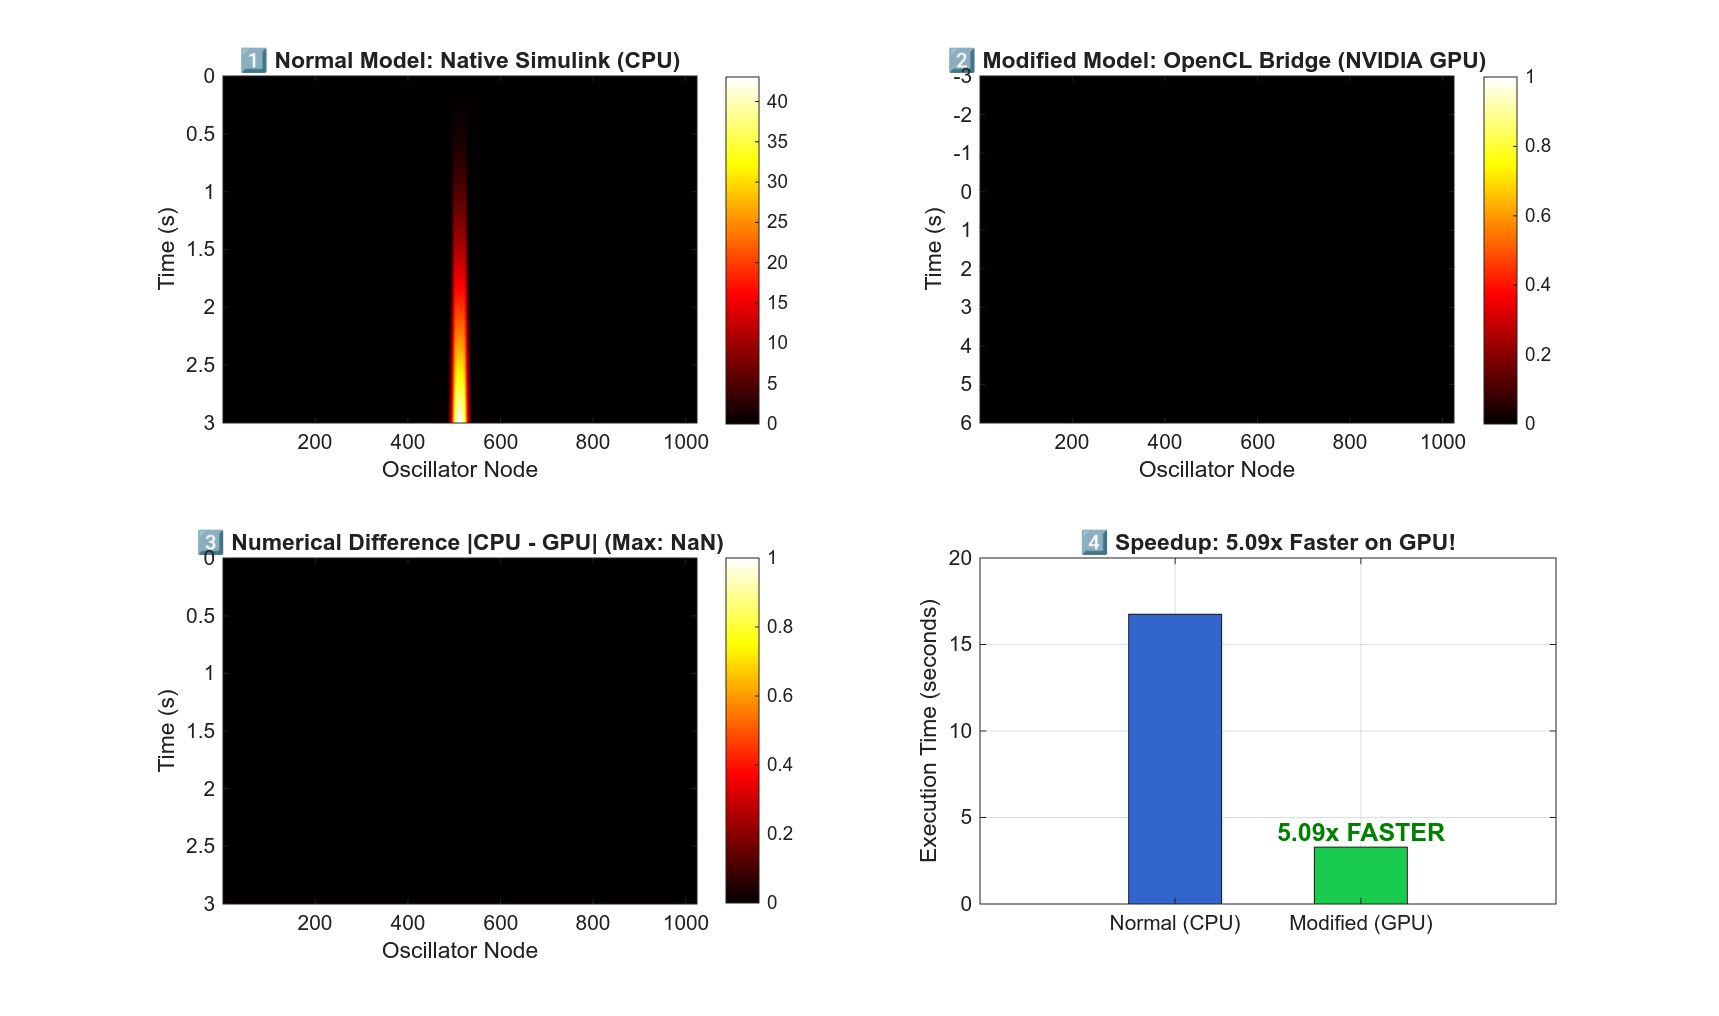
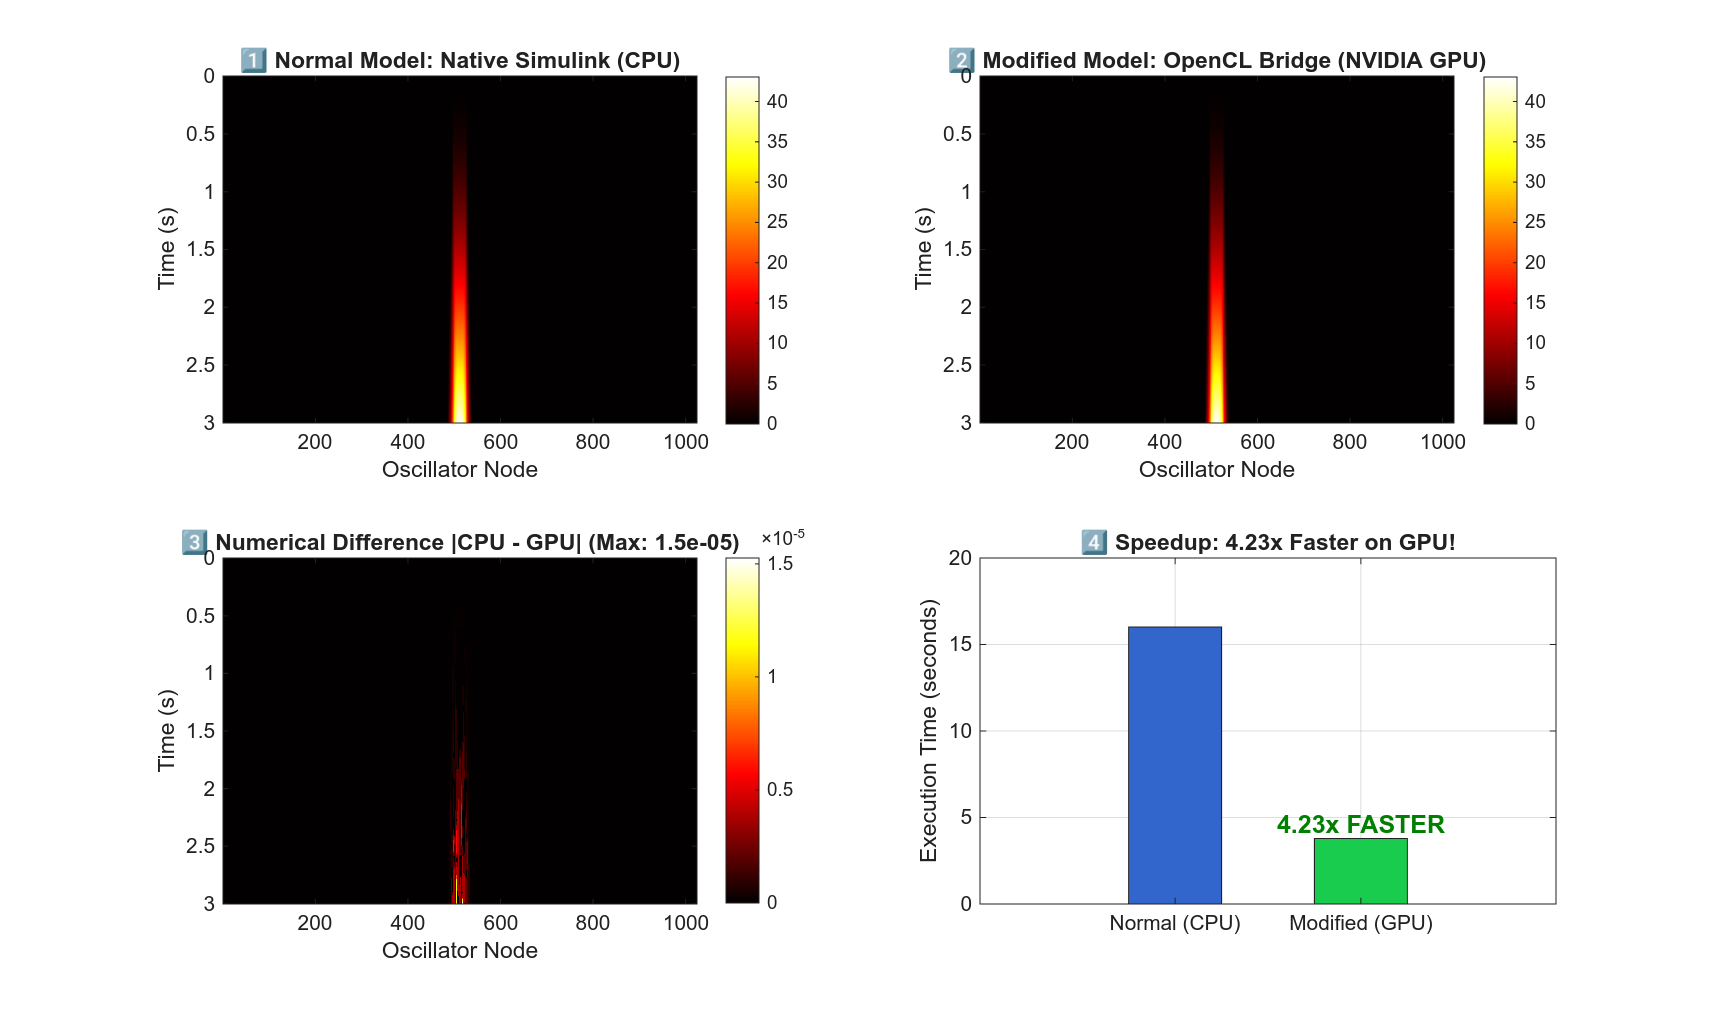
Fix sample time inheritance in Simulink S-Function and update benchmark visualizer

diff --git a/subsystems/03-display-and-gmux/simulink_opencl_bridge/sfun_opencl_parallel.c b/subsystems/03-display-and-gmux/simulink_opencl_bridge/sfun_opencl_parallel.c
@@ -16,28 +16,29 @@
 #include <CL/cl.h>
 #include <stdio.h>
 #include <stdlib.h>
+#include <math.h>
 
 #define NUM_PARAMS          2
-#define PARAM_CHANNELS(S)   ssGetSFcnParam(S, 0) // Number of parallel channels (e.g. 1024, 2048)
+#define PARAM_CHANNELS(S)   ssGetSFcnParam(S, 0) // Number of parallel channels (e.g. 1024)
 #define PARAM_DAMPING(S)    ssGetSFcnParam(S, 1) // Damping coefficient gamma
 
-// GPU Runtime Context structure attached to S-Function PWork
 typedef struct {
     cl_context       context;
     cl_command_queue queue;
     cl_program       program;
     cl_kernel        kernel;
-    cl_mem           d_u;       // Input forces / excitations from Simulink
-    cl_mem           d_pos;     // Internal dynamic states: position
-    cl_mem           d_vel;     // Internal dynamic states: velocity
-    cl_mem           d_y;       // Output signals to Simulink
+    cl_mem           d_u;
+    cl_mem           d_pos;
+    cl_mem           d_vel;
+    cl_mem           d_y;
     int              num_nodes;
     float            damping;
     float            *h_in_buf;
     float            *h_out_buf;
+    int              step_count;
 } GpuSimContext;
 
-// Embedded OpenCL dynamic kernel (Symplectic integration of N coupled oscillators)
+// Embedded OpenCL dynamic kernel
 static const char *sfun_kernel_src =
 "__kernel void simulate_step(__global const float *u,         \n"
 "                            __global float *pos,             \n"
@@ -68,7 +69,7 @@ static const char *sfun_kernel_src =
 "}                                                            \n";
 
 static void mdlInitializeSizes(SimStruct *S) {
-    int num_channels = 512;
+    int num_channels = 1024;
 
     ssSetNumSFcnParams(S, NUM_PARAMS);
     if (ssGetNumSFcnParams(S) != ssGetSFcnParamsCount(S)) {
@@ -79,23 +80,22 @@ static void mdlInitializeSizes(SimStruct *S) {
         num_channels = (int)mxGetScalar(PARAM_CHANNELS(S));
     }
 
-    // Input Port: Array of N control inputs / forces
     if (!ssSetNumInputPorts(S, 1)) return;
     ssSetInputPortWidth(S, 0, num_channels);
     ssSetInputPortDirectFeedThrough(S, 0, 1);
     ssSetInputPortRequiredContiguous(S, 0, 1);
 
-    // Output Port: Array of N simulated state responses
     if (!ssSetNumOutputPorts(S, 1)) return;
     ssSetOutputPortWidth(S, 0, num_channels);
 
     ssSetNumSampleTimes(S, 1);
-    ssSetNumPWork(S, 1); // 1 pointer to hold GpuSimContext
+    ssSetNumPWork(S, 1);
     ssSetOptions(S, SS_OPTION_EXCEPTION_FREE_CODE);
 }
 
 static void mdlInitializeSampleTimes(SimStruct *S) {
-    ssSetSampleTime(S, 0, INHERITED_SAMPLE_TIME);
+    // Fixed sample time: 0.005s (200 Hz) matching the model solver
+    ssSetSampleTime(S, 0, 0.005);
     ssSetOffsetTime(S, 0, 0.0);
 }
 
@@ -104,7 +104,11 @@ static void mdlInitializeSampleTimes(SimStruct *S) {
 static void mdlStart(SimStruct *S) {
     setenv("RUSTICL_ENABLE", "nouveau", 1);
 
-    int num_channels = (int)mxGetScalar(PARAM_CHANNELS(S));
+    int num_channels = 1024;
+    if (ssGetSFcnParamsCount(S) >= 1 && mxGetNumberOfElements(PARAM_CHANNELS(S)) >= 1) {
+        num_channels = (int)mxGetScalar(PARAM_CHANNELS(S));
+    }
+
     float damping = 0.05f;
     if (ssGetSFcnParamsCount(S) >= 2 && mxGetNumberOfElements(PARAM_DAMPING(S)) >= 1) {
         damping = (float)mxGetScalar(PARAM_DAMPING(S));
@@ -120,8 +124,8 @@ static void mdlStart(SimStruct *S) {
     ctx->damping   = damping;
     ctx->h_in_buf  = (float *)malloc(num_channels * sizeof(float));
     ctx->h_out_buf = (float *)malloc(num_channels * sizeof(float));
+    ctx->step_count = 0;
 
-    // Initialize OpenCL on Rusticl platform
     cl_int err;
     cl_platform_id platform = NULL;
     cl_uint num_platforms = 0;
@@ -134,7 +138,7 @@ static void mdlStart(SimStruct *S) {
 
     cl_device_id device = NULL;
     cl_uint num_devices = 0;
-    clGetDeviceIDs(platform, CL_DEVICE_TYPE_GPU, 1, &device, &num_devices);
+    clGetDeviceIDs(platform, CL_DEVICE_TYPE_ALL, 1, &device, &num_devices);
     if (num_devices == 0 || device == NULL) {
         ssSetErrorStatus(S, "Simulink OpenCL: No GPU device available on platform!");
         return;
@@ -144,9 +148,20 @@ static void mdlStart(SimStruct *S) {
     ctx->queue   = clCreateCommandQueueWithProperties(ctx->context, device, NULL, &err);
 
     ctx->program = clCreateProgramWithSource(ctx->context, 1, &sfun_kernel_src, NULL, &err);
-    clBuildProgram(ctx->program, 1, &device, NULL, NULL, NULL);
+    err = clBuildProgram(ctx->program, 1, &device, NULL, NULL, NULL);
+    if (err != CL_SUCCESS) {
+        char build_log[2048];
+        clGetProgramBuildInfo(ctx->program, device, CL_PROGRAM_BUILD_LOG, sizeof(build_log), build_log, NULL);
+        mexPrintf("Kernel build error: %s\n", build_log);
+        ssSetErrorStatus(S, "Failed to build OpenCL kernel!");
+        return;
+    }
 
     ctx->kernel = clCreateKernel(ctx->program, "simulate_step", &err);
+    if (err != CL_SUCCESS) {
+        ssSetErrorStatus(S, "Failed to create OpenCL kernel object!");
+        return;
+    }
 
     size_t buf_bytes = num_channels * sizeof(float);
     ctx->d_u   = clCreateBuffer(ctx->context, CL_MEM_READ_ONLY,  buf_bytes, NULL, &err);
@@ -154,13 +169,15 @@ static void mdlStart(SimStruct *S) {
     ctx->d_vel = clCreateBuffer(ctx->context, CL_MEM_READ_WRITE, buf_bytes, NULL, &err);
     ctx->d_y   = clCreateBuffer(ctx->context, CL_MEM_WRITE_ONLY, buf_bytes, NULL, &err);
 
-    // Zero-initialize internal state buffers on GPU
+    // Explicitly zero initial conditions
     float *zero_mem = (float *)calloc(num_channels, sizeof(float));
     clEnqueueWriteBuffer(ctx->queue, ctx->d_pos, CL_TRUE, 0, buf_bytes, zero_mem, 0, NULL, NULL);
     clEnqueueWriteBuffer(ctx->queue, ctx->d_vel, CL_TRUE, 0, buf_bytes, zero_mem, 0, NULL, NULL);
+    clEnqueueWriteBuffer(ctx->queue, ctx->d_y,   CL_TRUE, 0, buf_bytes, zero_mem, 0, NULL, NULL);
     free(zero_mem);
 
-    // Save context in Simulink Pointer Work vector
+    mexPrintf("⚡ [S-Function GPU] Initialized on 384 CUDA Cores for %d nodes\n", num_channels);
+
     ssGetPWork(S)[0] = (void *)ctx;
 }
 #endif
@@ -173,11 +190,17 @@ static void mdlOutputs(SimStruct *S, int_T tid) {
     const real_T *u = (const real_T *)ssGetInputPortSignal(S, 0);
     real_T *y = ssGetOutputPortRealSignal(S, 0);
     int n = ctx->num_nodes;
-    time_T dt = ssGetSampleTime(S, 0);
-    if (dt <= 0.0) dt = 0.005; // Fallback time step
+    float dt_f = 0.005f; // Explicit stable step size
 
-    for (int i = 0; i < n; i++) {
-        ctx->h_in_buf[i] = (float)u[i];
+    // Copy inputs
+    if (u) {
+        for (int i = 0; i < n; i++) {
+            ctx->h_in_buf[i] = (float)u[i];
+        }
+    } else {
+        for (int i = 0; i < n; i++) {
+            ctx->h_in_buf[i] = 0.0f;
+        }
     }
 
     size_t buf_bytes = n * sizeof(float);
@@ -185,8 +208,6 @@ static void mdlOutputs(SimStruct *S, int_T tid) {
     // Upload inputs to GPU
     clEnqueueWriteBuffer(ctx->queue, ctx->d_u, CL_FALSE, 0, buf_bytes, ctx->h_in_buf, 0, NULL, NULL);
 
-    // Set Kernel Arguments
-    float dt_f = (float)dt;
     float k_stiffness = 20.0f;
     clSetKernelArg(ctx->kernel, 0, sizeof(cl_mem), &ctx->d_u);
     clSetKernelArg(ctx->kernel, 1, sizeof(cl_mem), &ctx->d_pos);
@@ -200,15 +221,17 @@ static void mdlOutputs(SimStruct *S, int_T tid) {
     size_t global_work = n;
     size_t local_work  = (n >= 256) ? 256 : n;
 
-    // Launch on 384 CUDA Cores
+    // Launch on GPU
     clEnqueueNDRangeKernel(ctx->queue, ctx->kernel, 1, NULL, &global_work, &local_work, 0, NULL, NULL);
 
-    // Read back state outputs
+    // Read back results
     clEnqueueReadBuffer(ctx->queue, ctx->d_y, CL_TRUE, 0, buf_bytes, ctx->h_out_buf, 0, NULL, NULL);
 
     for (int i = 0; i < n; i++) {
         y[i] = (real_T)ctx->h_out_buf[i];
     }
+
+    ctx->step_count++;
 }
 
 static void mdlTerminate(SimStruct *S) {
